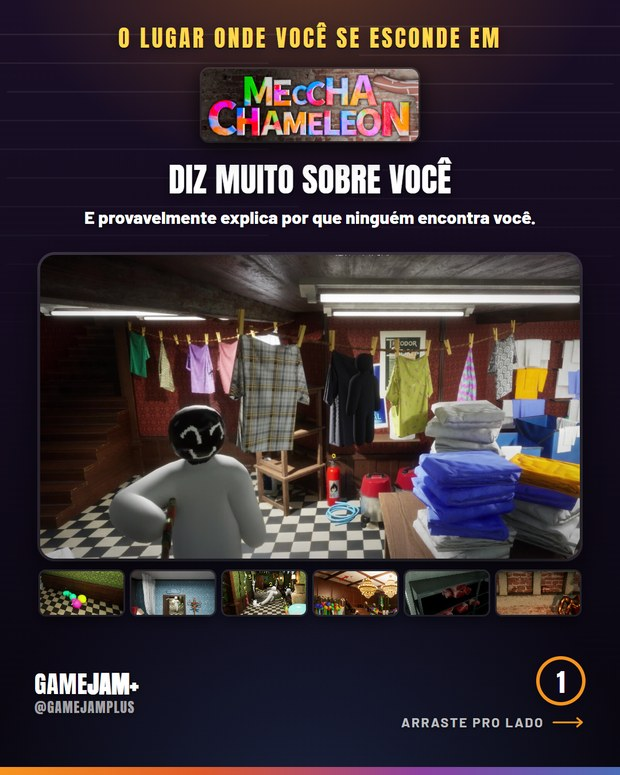
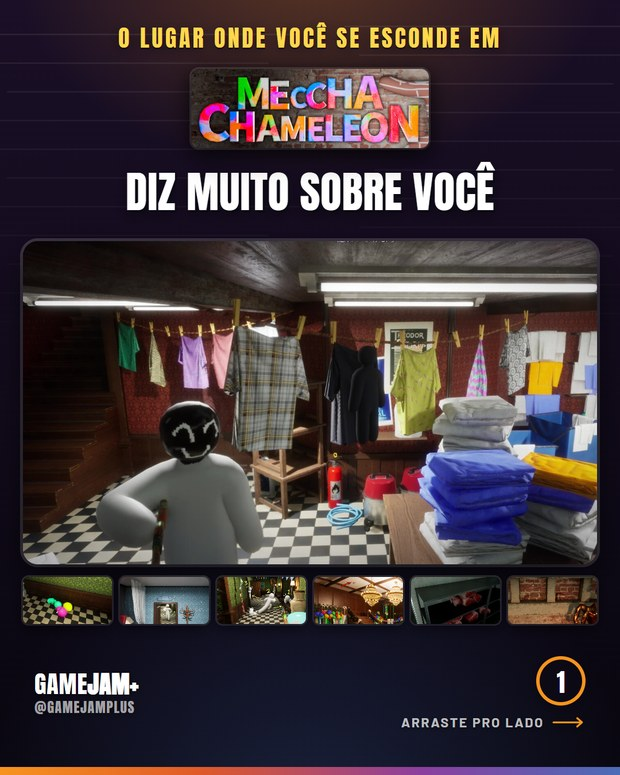
Meccha Chameleon: capa so com a manchete, sem a linha de apoio
Sai a frase menor embaixo do titulo. Com o espaco livre a manchete
cresceu pra 76 e a foto voltou ao mesmo tamanho dos outros slides.

diff --git a/index.html b/index.html
@@ -801,11 +801,11 @@ dialog img{width:min(92vw,620px);max-height:92dvh;object-fit:contain;border-radi
 <article class="c" data-cat="04-conteudos-memes-gj" data-lang="PT" data-busca="m02 - onde voce se esconde em meccha chameleon memes gj+" id="c184">
   <header><div><span class="tagcat">Memes GJ+</span><span class="taglang PT">PT</span><h2>M02 - Onde você se esconde em Meccha Chameleon</h2></div>
   <div class="nav"><button aria-label="Anterior" data-d="-1">←</button><button aria-label="Próximo" data-d="1">→</button><span class="cont">7</span></div></header>
-  <div class="strip"><figure><img src="img/04-conteudos-memes-gj-pt-m02-onde-voce-se-esconde-meccha-chameleon/slide_01.jpg?v=16" alt="M02 - Onde você se esconde em Meccha Chameleon 1" width="620" height="775" loading="lazy" decoding="async"><figcaption>01</figcaption></figure><figure><img src="img/04-conteudos-memes-gj-pt-m02-onde-voce-se-esconde-meccha-chameleon/slide_02.jpg?v=16" alt="M02 - Onde você se esconde em Meccha Chameleon 2" width="620" height="775" loading="lazy" decoding="async"><figcaption>02</figcaption></figure><figure><img src="img/04-conteudos-memes-gj-pt-m02-onde-voce-se-esconde-meccha-chameleon/slide_03.jpg?v=16" alt="M02 - Onde você se esconde em Meccha Chameleon 3" width="620" height="775" loading="lazy" decoding="async"><figcaption>03</figcaption></figure><figure><img src="img/04-conteudos-memes-gj-pt-m02-onde-voce-se-esconde-meccha-chameleon/slide_04.jpg?v=16" alt="M02 - Onde você se esconde em Meccha Chameleon 4" width="620" height="775" loading="lazy" decoding="async"><figcaption>04</figcaption></figure><figure><img src="img/04-conteudos-memes-gj-pt-m02-onde-voce-se-esconde-meccha-chameleon/slide_05.jpg?v=16" alt="M02 - Onde você se esconde em Meccha Chameleon 5" width="620" height="775" loading="lazy" decoding="async"><figcaption>05</figcaption></figure><figure><img src="img/04-conteudos-memes-gj-pt-m02-onde-voce-se-esconde-meccha-chameleon/slide_06.jpg?v=16" alt="M02 - Onde você se esconde em Meccha Chameleon 6" width="620" height="775" loading="lazy" decoding="async"><figcaption>06</figcaption></figure><figure><img src="img/04-conteudos-memes-gj-pt-m02-onde-voce-se-esconde-meccha-chameleon/slide_07.jpg?v=16" alt="M02 - Onde você se esconde em Meccha Chameleon 7" width="620" height="775" loading="lazy" decoding="async"><figcaption>07</figcaption></figure></div></article>
+  <div class="strip"><figure><img src="img/04-conteudos-memes-gj-pt-m02-onde-voce-se-esconde-meccha-chameleon/slide_01.jpg?v=17" alt="M02 - Onde você se esconde em Meccha Chameleon 1" width="620" height="775" loading="lazy" decoding="async"><figcaption>01</figcaption></figure><figure><img src="img/04-conteudos-memes-gj-pt-m02-onde-voce-se-esconde-meccha-chameleon/slide_02.jpg?v=17" alt="M02 - Onde você se esconde em Meccha Chameleon 2" width="620" height="775" loading="lazy" decoding="async"><figcaption>02</figcaption></figure><figure><img src="img/04-conteudos-memes-gj-pt-m02-onde-voce-se-esconde-meccha-chameleon/slide_03.jpg?v=17" alt="M02 - Onde você se esconde em Meccha Chameleon 3" width="620" height="775" loading="lazy" decoding="async"><figcaption>03</figcaption></figure><figure><img src="img/04-conteudos-memes-gj-pt-m02-onde-voce-se-esconde-meccha-chameleon/slide_04.jpg?v=17" alt="M02 - Onde você se esconde em Meccha Chameleon 4" width="620" height="775" loading="lazy" decoding="async"><figcaption>04</figcaption></figure><figure><img src="img/04-conteudos-memes-gj-pt-m02-onde-voce-se-esconde-meccha-chameleon/slide_05.jpg?v=17" alt="M02 - Onde você se esconde em Meccha Chameleon 5" width="620" height="775" loading="lazy" decoding="async"><figcaption>05</figcaption></figure><figure><img src="img/04-conteudos-memes-gj-pt-m02-onde-voce-se-esconde-meccha-chameleon/slide_06.jpg?v=17" alt="M02 - Onde você se esconde em Meccha Chameleon 6" width="620" height="775" loading="lazy" decoding="async"><figcaption>06</figcaption></figure><figure><img src="img/04-conteudos-memes-gj-pt-m02-onde-voce-se-esconde-meccha-chameleon/slide_07.jpg?v=17" alt="M02 - Onde você se esconde em Meccha Chameleon 7" width="620" height="775" loading="lazy" decoding="async"><figcaption>07</figcaption></figure></div></article>
 <article class="c" data-cat="04-conteudos-memes-gj" data-lang="EN" data-busca="m02 - where you hide in meccha chameleon memes gj+" id="c185">
   <header><div><span class="tagcat">Memes GJ+</span><span class="taglang EN">EN</span><h2>M02 - Where you hide in Meccha Chameleon</h2></div>
   <div class="nav"><button aria-label="Anterior" data-d="-1">←</button><button aria-label="Próximo" data-d="1">→</button><span class="cont">7</span></div></header>
-  <div class="strip"><figure><img src="img/04-conteudos-memes-gj-en-m02-where-you-hide-meccha-chameleon/slide_01.jpg?v=16" alt="M02 - Where you hide in Meccha Chameleon 1" width="620" height="775" loading="lazy" decoding="async"><figcaption>01</figcaption></figure><figure><img src="img/04-conteudos-memes-gj-en-m02-where-you-hide-meccha-chameleon/slide_02.jpg?v=16" alt="M02 - Where you hide in Meccha Chameleon 2" width="620" height="775" loading="lazy" decoding="async"><figcaption>02</figcaption></figure><figure><img src="img/04-conteudos-memes-gj-en-m02-where-you-hide-meccha-chameleon/slide_03.jpg?v=16" alt="M02 - Where you hide in Meccha Chameleon 3" width="620" height="775" loading="lazy" decoding="async"><figcaption>03</figcaption></figure><figure><img src="img/04-conteudos-memes-gj-en-m02-where-you-hide-meccha-chameleon/slide_04.jpg?v=16" alt="M02 - Where you hide in Meccha Chameleon 4" width="620" height="775" loading="lazy" decoding="async"><figcaption>04</figcaption></figure><figure><img src="img/04-conteudos-memes-gj-en-m02-where-you-hide-meccha-chameleon/slide_05.jpg?v=16" alt="M02 - Where you hide in Meccha Chameleon 5" width="620" height="775" loading="lazy" decoding="async"><figcaption>05</figcaption></figure><figure><img src="img/04-conteudos-memes-gj-en-m02-where-you-hide-meccha-chameleon/slide_06.jpg?v=16" alt="M02 - Where you hide in Meccha Chameleon 6" width="620" height="775" loading="lazy" decoding="async"><figcaption>06</figcaption></figure><figure><img src="img/04-conteudos-memes-gj-en-m02-where-you-hide-meccha-chameleon/slide_07.jpg?v=16" alt="M02 - Where you hide in Meccha Chameleon 7" width="620" height="775" loading="lazy" decoding="async"><figcaption>07</figcaption></figure></div></article>
+  <div class="strip"><figure><img src="img/04-conteudos-memes-gj-en-m02-where-you-hide-meccha-chameleon/slide_01.jpg?v=17" alt="M02 - Where you hide in Meccha Chameleon 1" width="620" height="775" loading="lazy" decoding="async"><figcaption>01</figcaption></figure><figure><img src="img/04-conteudos-memes-gj-en-m02-where-you-hide-meccha-chameleon/slide_02.jpg?v=17" alt="M02 - Where you hide in Meccha Chameleon 2" width="620" height="775" loading="lazy" decoding="async"><figcaption>02</figcaption></figure><figure><img src="img/04-conteudos-memes-gj-en-m02-where-you-hide-meccha-chameleon/slide_03.jpg?v=17" alt="M02 - Where you hide in Meccha Chameleon 3" width="620" height="775" loading="lazy" decoding="async"><figcaption>03</figcaption></figure><figure><img src="img/04-conteudos-memes-gj-en-m02-where-you-hide-meccha-chameleon/slide_04.jpg?v=17" alt="M02 - Where you hide in Meccha Chameleon 4" width="620" height="775" loading="lazy" decoding="async"><figcaption>04</figcaption></figure><figure><img src="img/04-conteudos-memes-gj-en-m02-where-you-hide-meccha-chameleon/slide_05.jpg?v=17" alt="M02 - Where you hide in Meccha Chameleon 5" width="620" height="775" loading="lazy" decoding="async"><figcaption>05</figcaption></figure><figure><img src="img/04-conteudos-memes-gj-en-m02-where-you-hide-meccha-chameleon/slide_06.jpg?v=17" alt="M02 - Where you hide in Meccha Chameleon 6" width="620" height="775" loading="lazy" decoding="async"><figcaption>06</figcaption></figure><figure><img src="img/04-conteudos-memes-gj-en-m02-where-you-hide-meccha-chameleon/slide_07.jpg?v=17" alt="M02 - Where you hide in Meccha Chameleon 7" width="620" height="775" loading="lazy" decoding="async"><figcaption>07</figcaption></figure></div></article>
 <p class="vazio" id="vazio" hidden>Nenhum carrossel com esse filtro.</p></main>
 <dialog id="lb"><img id="lbimg" alt=""><div class="dnav"><button id="prev" aria-label="Anterior">←</button><button id="next" aria-label="Próximo">→</button></div><p class="dcap" id="lbcap"></p></dialog>
 <script>
